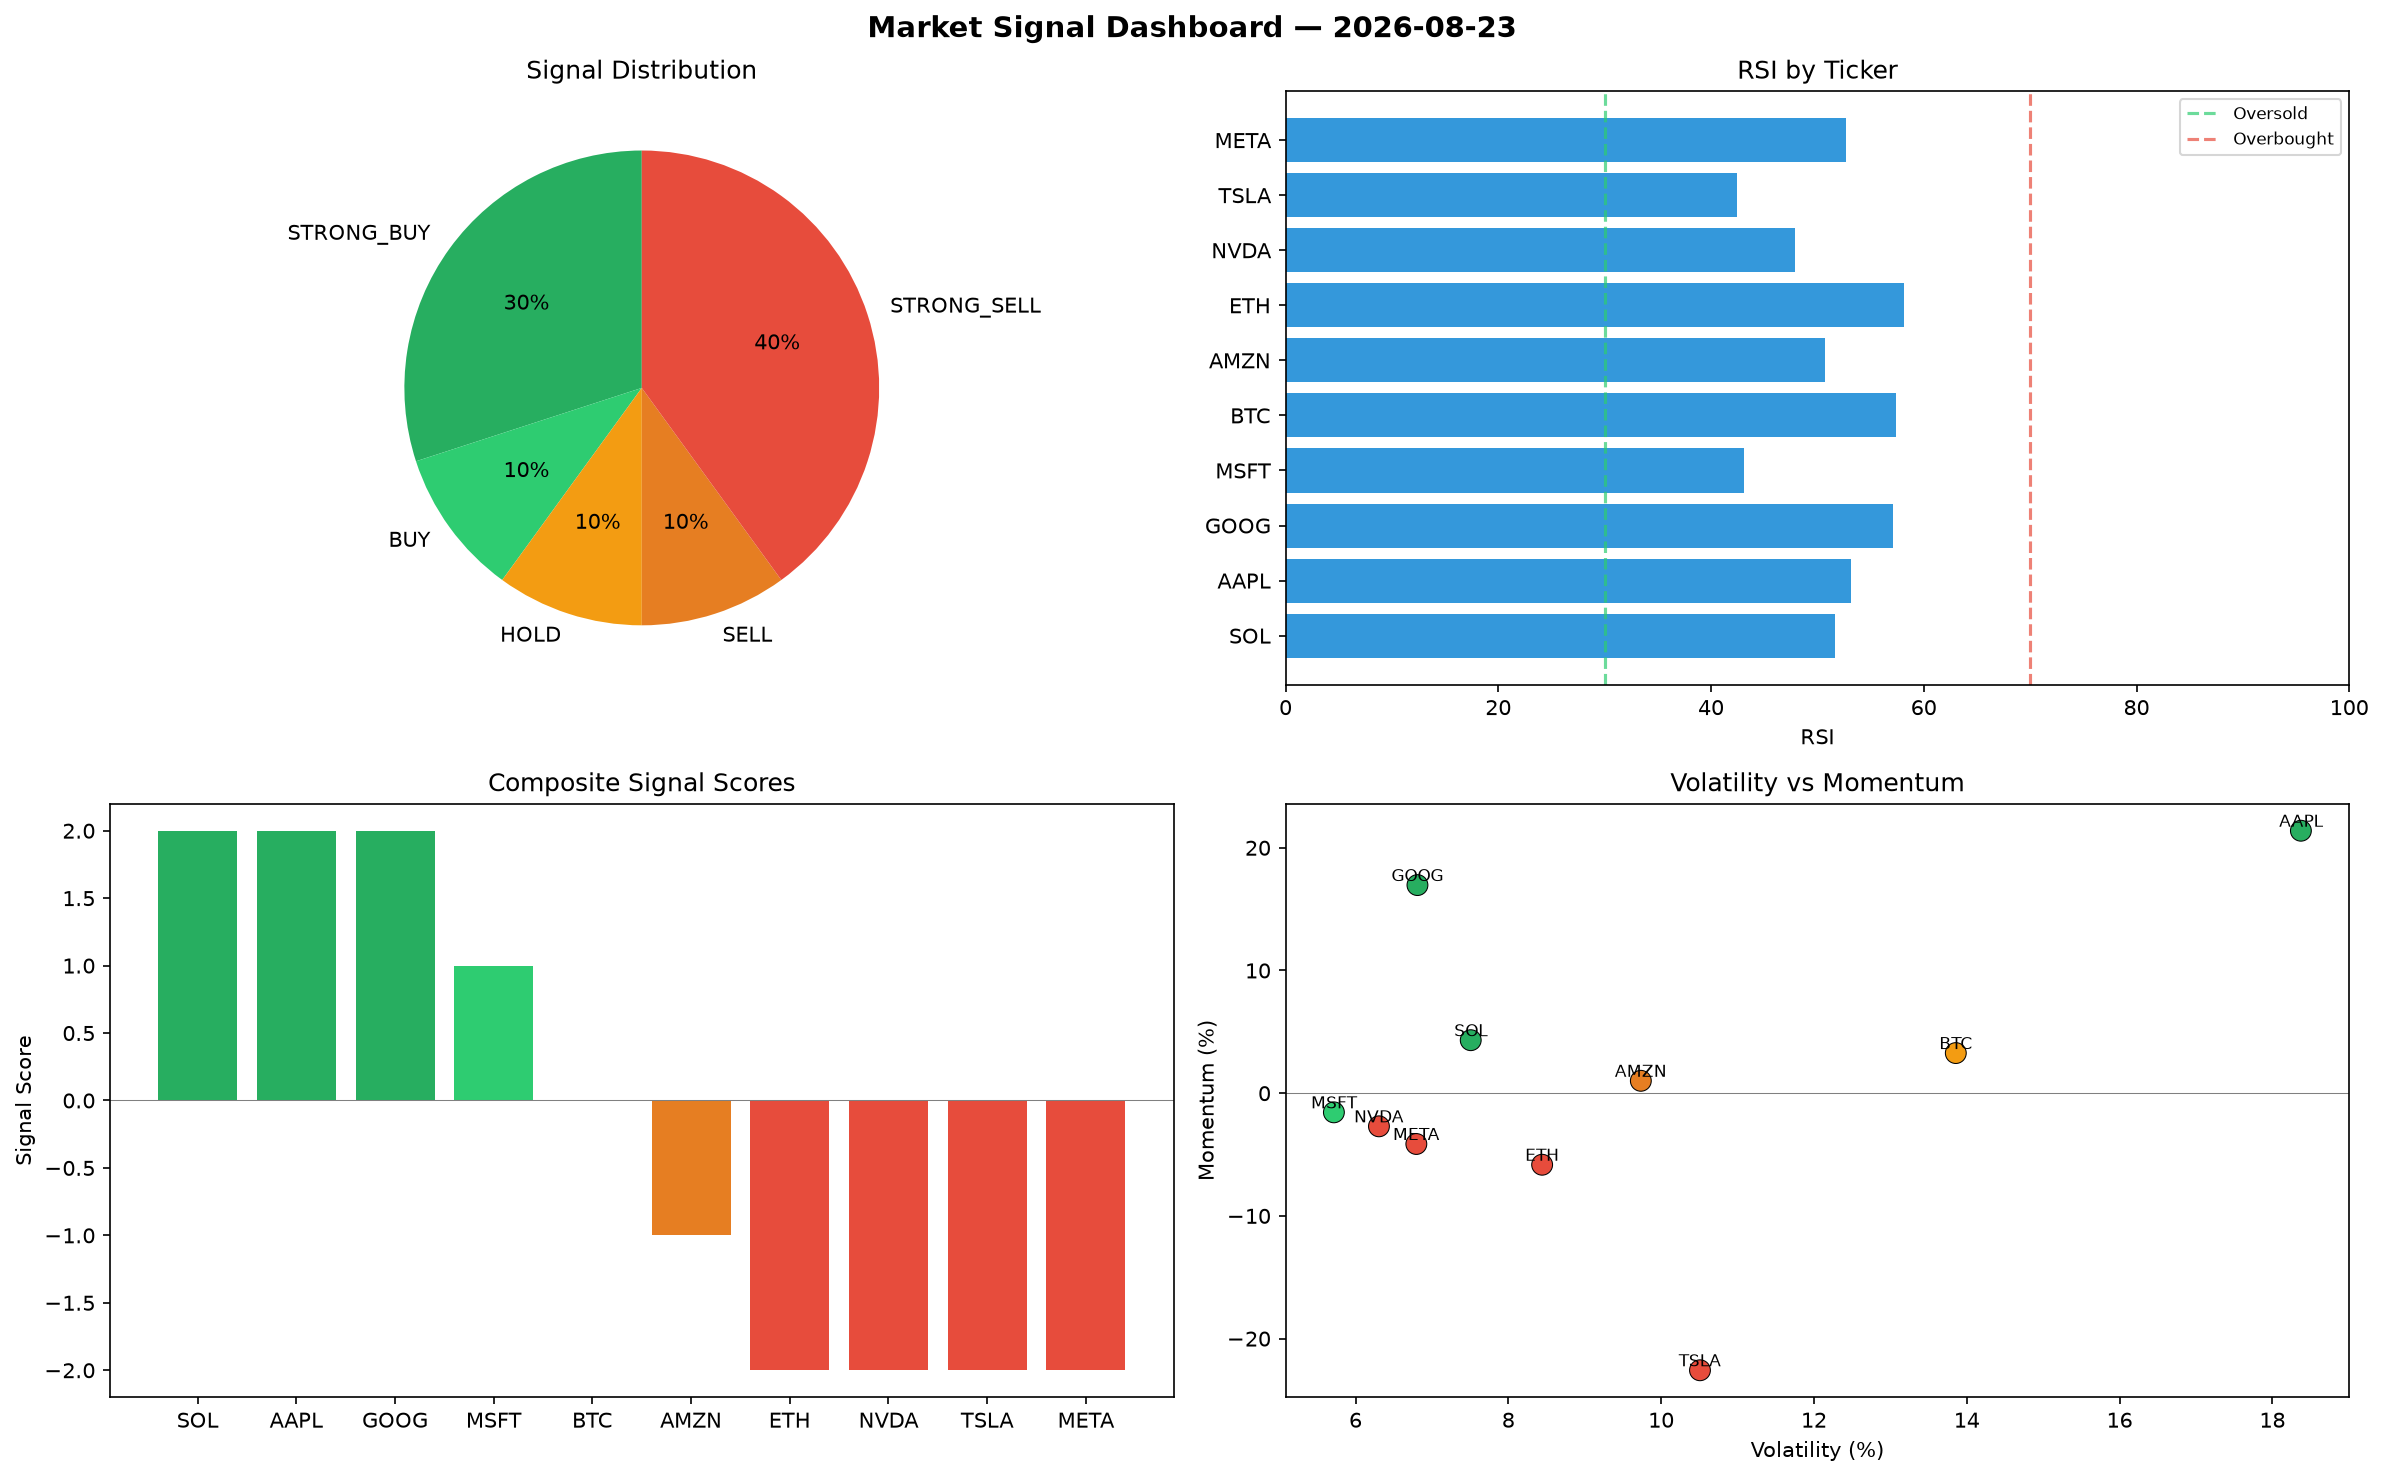
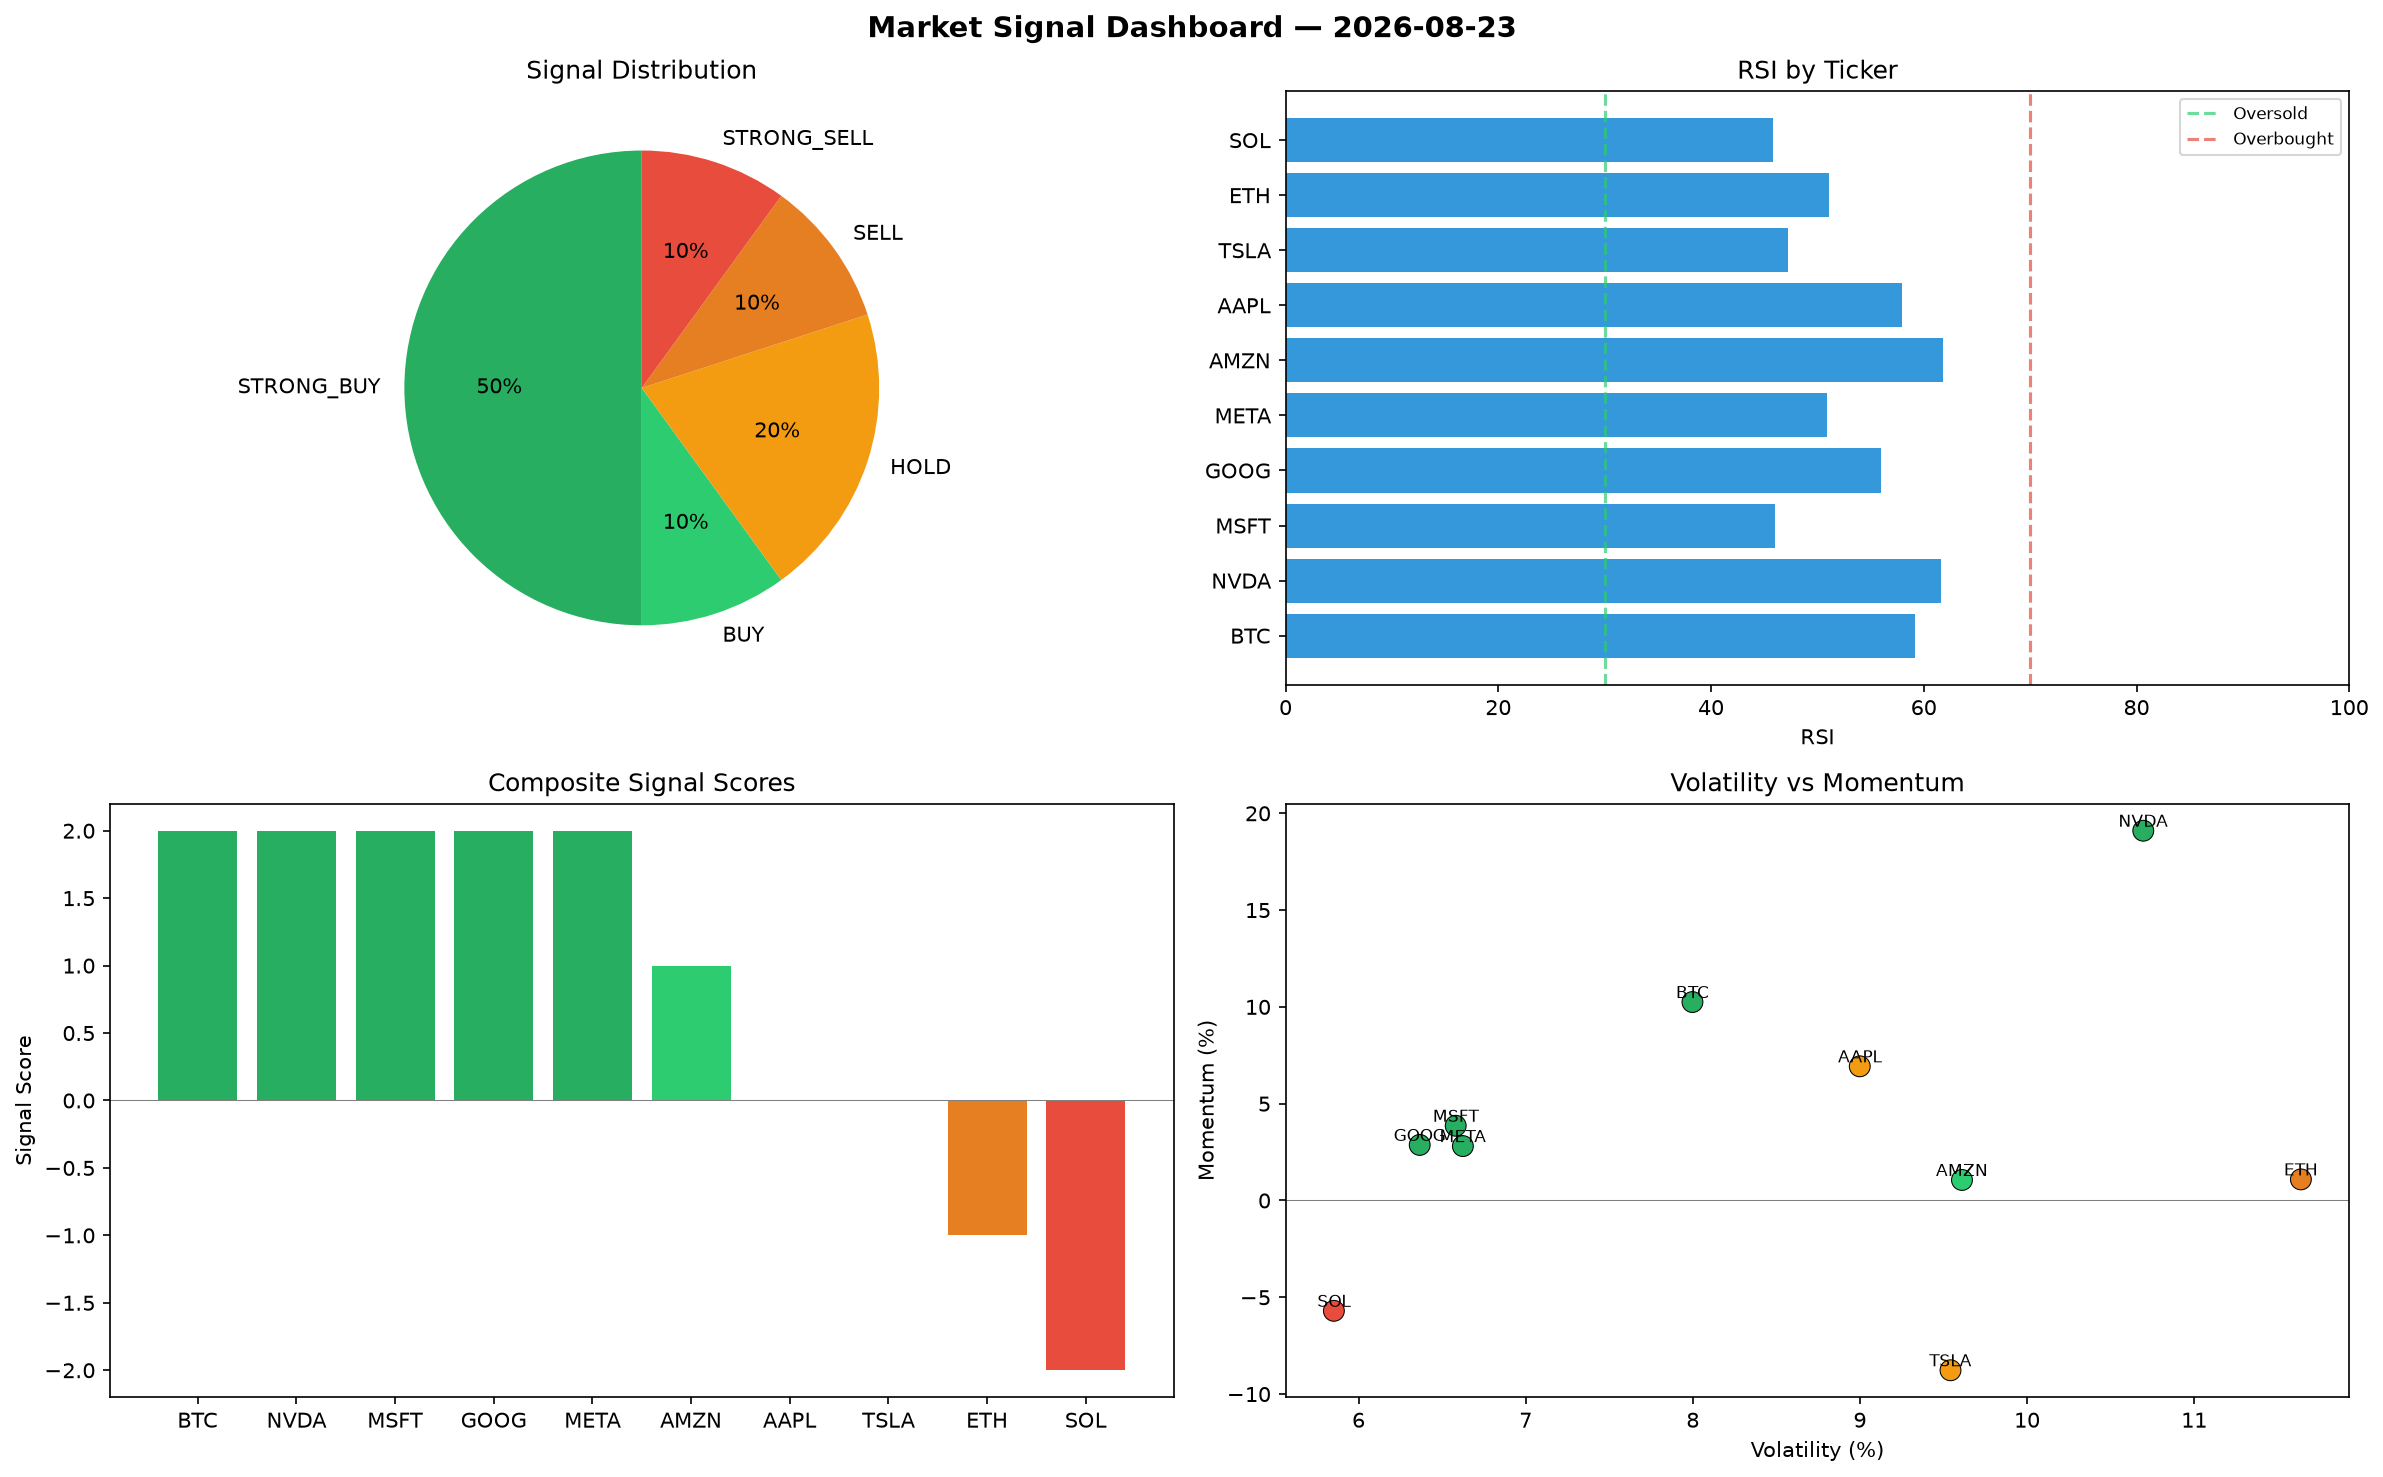
automated-bots: market signals 2026-08-23T08:55

diff --git a/logs/2026-08-23.md b/logs/2026-08-23.md
@@ -1,6 +1,6 @@
 # Market Signal Report — 2026-08-23
 
-**Run ID:** `e7bddcda82` | **Buy:** 4 | **Sell:** 5 | **Hold:** 1
+**Run ID:** `286dcf03f3` | **Buy:** 6 | **Sell:** 2 | **Hold:** 2
 
 ![Dashboard](2026-08-23_dashboard.png)
 
@@ -8,28 +8,28 @@
 
 | Ticker | Price | Signal | Score | RSI | Momentum | Confidence |
 |--------|-------|--------|-------|-----|----------|------------|
-| SOL | $3318.52 | **STRONG_BUY** | 2 | 51.62 | 0.0432 | 0.5 |
-| AAPL | $5922.82 | **STRONG_BUY** | 2 | 53.15 | 0.2139 | 0.5 |
-| GOOG | $5844.25 | **STRONG_BUY** | 2 | 57.08 | 0.1696 | 0.5 |
-| MSFT | $58.53 | **BUY** | 1 | 43.08 | -0.0156 | 0.25 |
-| BTC | $3430.21 | **HOLD** | 0 | 57.37 | 0.0327 | 0.0 |
-| AMZN | $4704.31 | **SELL** | -1 | 50.7 | 0.0101 | 0.25 |
-| ETH | $2232.03 | **STRONG_SELL** | -2 | 58.13 | -0.0583 | 0.5 |
-| NVDA | $3512.39 | **STRONG_SELL** | -2 | 47.87 | -0.027 | 0.5 |
-| TSLA | $1306.22 | **STRONG_SELL** | -2 | 42.48 | -0.2258 | 0.5 |
-| META | $1927.56 | **STRONG_SELL** | -2 | 52.67 | -0.0414 | 0.5 |
+| BTC | $2916.36 | **STRONG_BUY** | 2 | 59.16 | 0.1025 | 0.5 |
+| NVDA | $3897.91 | **STRONG_BUY** | 2 | 61.58 | 0.191 | 0.5 |
+| MSFT | $1782.61 | **STRONG_BUY** | 2 | 45.98 | 0.0386 | 0.5 |
+| GOOG | $3732.65 | **STRONG_BUY** | 2 | 55.97 | 0.0287 | 0.5 |
+| META | $2867.1 | **STRONG_BUY** | 2 | 50.92 | 0.0281 | 0.5 |
+| AMZN | $1262.07 | **BUY** | 1 | 61.78 | 0.0106 | 0.25 |
+| AAPL | $1340.76 | **HOLD** | 0 | 57.91 | 0.0693 | 0.0 |
+| TSLA | $1505.55 | **HOLD** | 0 | 47.22 | -0.0877 | 0.0 |
+| ETH | $4551.77 | **SELL** | -1 | 51.13 | 0.0109 | 0.25 |
+| SOL | $3844.94 | **STRONG_SELL** | -2 | 45.8 | -0.057 | 0.5 |
 
 ## Delta vs Yesterday
 
 | Ticker | Today | Yesterday | Price Change | Signal Changed |
 |--------|-------|-----------|-------------|----------------|
-| SOL | STRONG_BUY | SELL | 📈 240.16% | ⚠ YES |
-| AAPL | STRONG_BUY | BUY | 📈 97.55% | ⚠ YES |
-| GOOG | STRONG_BUY | STRONG_BUY | 📈 782.51% | — |
-| MSFT | BUY | STRONG_SELL | 📉 -98.48% | ⚠ YES |
-| BTC | HOLD | HOLD | 📈 20.61% | — |
-| AMZN | SELL | STRONG_BUY | 📈 503.9% | ⚠ YES |
-| ETH | STRONG_SELL | STRONG_BUY | 📈 768.36% | ⚠ YES |
-| NVDA | STRONG_SELL | STRONG_SELL | 📈 66.4% | — |
-| TSLA | STRONG_SELL | STRONG_SELL | 📉 -49.91% | — |
-| META | STRONG_SELL | STRONG_SELL | 📉 -43.25% | — |
+| BTC | STRONG_BUY | HOLD | 📈 2.54% | ⚠ YES |
+| NVDA | STRONG_BUY | STRONG_SELL | 📈 84.67% | ⚠ YES |
+| MSFT | STRONG_BUY | STRONG_SELL | 📉 -53.75% | ⚠ YES |
+| GOOG | STRONG_BUY | STRONG_BUY | 📈 463.65% | — |
+| META | STRONG_BUY | STRONG_SELL | 📉 -15.58% | ⚠ YES |
+| AMZN | BUY | STRONG_BUY | 📈 62.01% | ⚠ YES |
+| AAPL | HOLD | BUY | 📉 -55.28% | ⚠ YES |
+| TSLA | HOLD | STRONG_SELL | 📉 -42.26% | ⚠ YES |
+| ETH | SELL | STRONG_BUY | 📈 1670.84% | ⚠ YES |
+| SOL | STRONG_SELL | SELL | 📈 294.11% | ⚠ YES |
